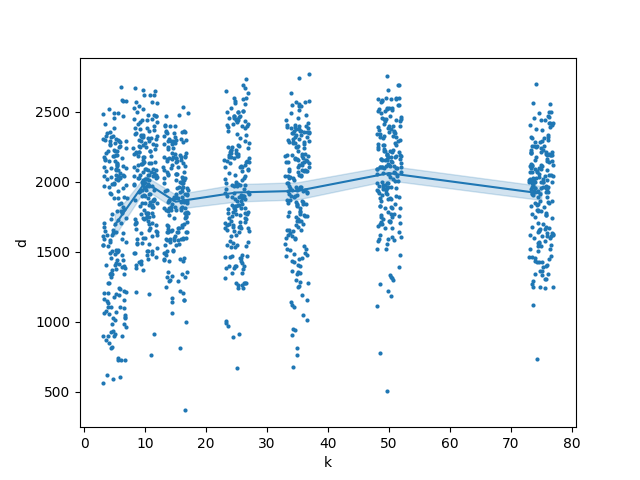
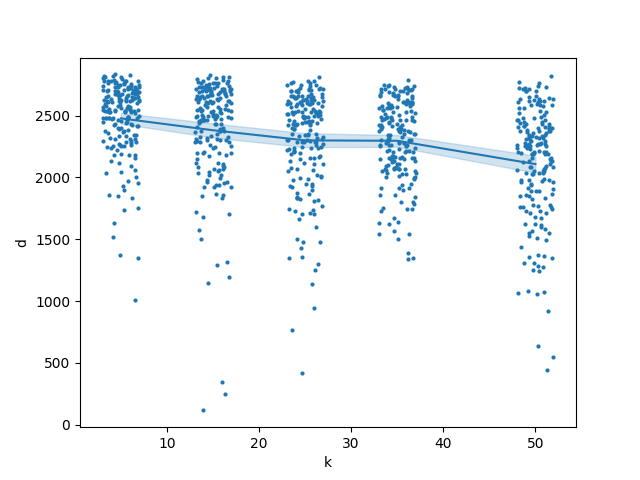
kmedoids, forgot to commit

diff --git a/partition.py b/partition.py
@@ -1,3 +1,5 @@
+import time
+from kmedoids import KMedoids
 import itertools
 from tqdm import tqdm
 from pair_generator import DistanceBucketingPG
@@ -25,6 +27,7 @@ class InducedPartition:
         self.p = 0
         self.g = g
         self.instances = pd.DataFrame(index=self.g.weights.index)
+        self.inst_vectors = np.zeros((self.g.I, 0))
 
     def __repr__(self):
         text = f'Partition at {id(self):x} with elements'
@@ -41,17 +44,16 @@ class InducedPartition:
         winner = np.argmin(c, axis=1)
         letter = np.array(list(InducedPartition.portfolio_wise_labels))[winner]
         self.instances[f'{portfolio.s}-{portfolio.t}'] = letter
+        self.inst_vectors = np.hstack([self.inst_vectors, winner.reshape((-1, 1))])
         self.p += 1
 
     def cluster(self, k=3):
-        kmodes = KModes(n_clusters=k)
-        kmodes.fit_predict(self.instances)
-        # print(kmodes.cluster_centroids_)
-        # print(kmodes.cost_)
-        # print(kmodes.n_iter_)
-        # print(kmodes.labels_)
-        # print(pd.Series(kmodes.labels_).value_counts())
-        return InstancePartition(self.g, kmodes.labels_)
+        dists = np.zeros((self.g.I, self.g.I))
+        for i in range(self.g.I):
+            dists[:, i] = (self.inst_vectors != self.inst_vectors[i]).sum(axis=1)
+        kmedoids = KMedoids(n_clusters=k)
+        kmedoids.fit_predict(dists)
+        return InstancePartition(self.g, kmedoids.labels_)
 
 class InstancePartition:
     def __init__(self, g: Graph, labels: np.ndarray):
@@ -103,8 +105,8 @@ if __name__ == "__main__":
         dists = pd.DataFrame(dists)
         dists.to_csv('./cache/clustering_dists_temp.csv')
 
-    dists = pd.read_csv('./cache/clustering_dists.csv')
-    sns.stripplot(dists, y='d', x='k', native_scale=True, jitter=.4, s=3)
+    dists = pd.read_csv('./cache/clustering_dists_temp.csv')
+    sns.stripplot(dists, y='d', x='k', native_scale=True, jitter=.2, s=3)
     sns.lineplot(dists, y='d', x='k')
     plt.savefig('./figures/clustering_distances.png')
 
